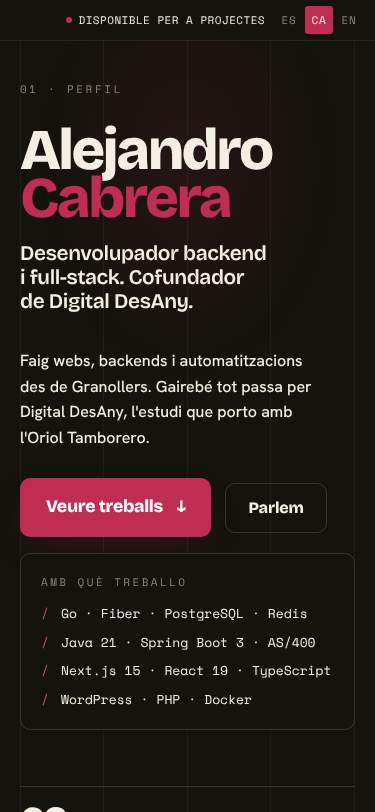
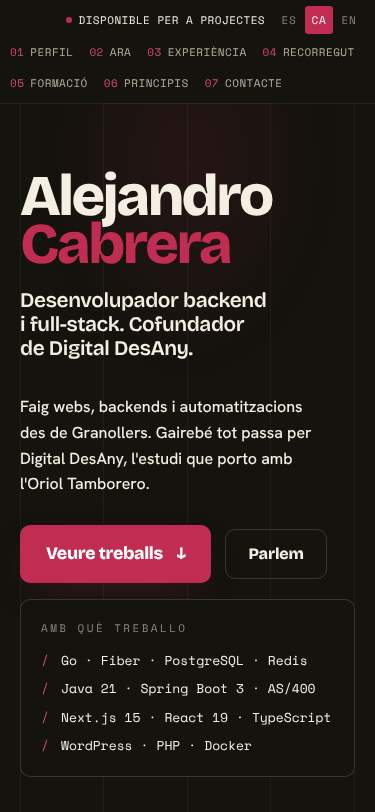
feat(layout): header con índice de secciones, footer y menos etiquetas (Fase 5)
- <header> con nombre, índice numerado, disponibilidad e idioma; <footer> propio
- fuera reloj, separadores y etiquetas mono que solo decoraban
- axe sin ninguna violación en es/ca/en a 375 y 1440 px

Claude-Session: https://claude.ai/code/session_01UWfBXUSZpupNeN7F689GFX

diff --git a/app/globals.css b/app/globals.css
@@ -139,46 +139,85 @@ button { font: inherit; color: inherit; background: none; border: none; cursor: 
   padding-right: var(--pad);
 }
 
-/* ───────── Telemetry bar ───────── */
-.telemetry {
+/* ───────── Site header ─────────
+   One row on wide screens. Below 1100px the section index drops to its own
+   row; below 861px the header stops being sticky so it doesn't eat the screen. */
+.site-header {
   position: sticky;
   top: 0;
   z-index: 50;
   backdrop-filter: blur(14px);
-  background: color-mix(in srgb, var(--bg) 78%, transparent);
+  background: color-mix(in srgb, var(--bg) 88%, transparent);
   border-bottom: 1px solid var(--line);
 }
-.telemetry__inner {
+.site-header__bar {
   max-width: var(--shell-max);
   margin: 0 auto;
   padding: 8px var(--pad);
   display: flex;
+  flex-wrap: wrap;
   align-items: center;
-  gap: 18px;
+  gap: 6px 18px;
   font-family: var(--font-mono), ui-monospace, monospace;
   font-size: 11px;
   text-transform: uppercase;
-  letter-spacing: 0.14em;
+  letter-spacing: 0.12em;
   white-space: nowrap;
 }
-.telemetry__sysid { color: var(--ink); font-weight: 700; }
-.telemetry__sep { color: var(--muted-faint); }
-.telemetry__role { color: var(--muted); }
-.telemetry__spacer { flex: 1; }
-.telemetry__avail {
+.site-header__name {
+  color: var(--ink);
+  font-weight: 700;
+  min-height: 28px;
+  display: inline-flex;
+  align-items: center;
+}
+.site-header__spacer { flex: 1; }
+.site-header__avail {
   display: inline-flex; align-items: center; gap: 7px;
   color: var(--ink);
 }
-.telemetry__clock { color: var(--muted-soft); }
+.site-nav ol { display: flex; flex-wrap: wrap; gap: 2px 4px; list-style: none; margin: 0; padding: 0; }
+.site-nav a {
+  display: inline-flex;
+  align-items: baseline;
+  gap: 6px;
+  min-height: 28px;
+  padding: 6px 8px;
+  border-radius: 4px;
+  color: var(--muted);
+  transition: color 0.25s, background 0.25s;
+}
+.site-nav a:hover { color: var(--ink); background: color-mix(in srgb, var(--ink) 6%, transparent); }
+.site-nav__num { color: var(--accent-text); }
+@media (max-width: 1099px) {
+  .site-nav { order: 10; flex-basis: 100%; }
+  .site-nav ol { margin-left: -8px; }
+}
 @media (max-width: 860px) {
-  .telemetry__role,
-  .telemetry__clock,
-  .telemetry__sep { display: none; }
+  .site-header { position: relative; }
 }
 @media (max-width: 480px) {
-  .telemetry__sysid { display: none; }
-  .telemetry__inner { padding: 6px 12px; gap: 10px; letter-spacing: 0.04em; }
+  .site-header__name { display: none; }
+  .site-header__bar { padding: 6px 12px; gap: 4px 10px; letter-spacing: 0.04em; }
+  .site-nav a { padding: 6px 6px; }
 }
+section[id], article[id] { scroll-margin-top: 72px; }
+
+/* ───────── Site footer ───────── */
+.site-footer {
+  padding-top: 22px;
+  padding-bottom: clamp(40px, 6vw, 72px);
+  display: flex;
+  justify-content: space-between;
+  gap: 8px 16px;
+  flex-wrap: wrap;
+  font-family: var(--font-mono), ui-monospace, monospace;
+  font-size: 11px;
+  letter-spacing: 0.06em;
+  color: var(--muted-soft);
+  border-top: 1px solid var(--line);
+}
+
 .dot {
   width: 6px; height: 6px; border-radius: 50%;
   background: #4ade80;

diff --git a/components/SiteHeader.tsx b/components/SiteHeader.tsx
@@ -1,31 +1,35 @@
 import { DATA } from "@/lib/content";
 import { LOCALES, LOCALE_FULL, translator, type Locale } from "@/lib/i18n-types";
 import { LOCALE_PATH } from "@/lib/site";
-import { Clock } from "./ui/Clock";
 
-export function TelemetryBar({ locale }: { locale: Locale }) {
+/** Skip link plus the banner: name, section index, availability and language. */
+export function SiteHeader({ locale }: { locale: Locale }) {
   const t = translator(locale);
-  const d = DATA.telemetry;
+  const d = DATA.header;
   return (
     <>
       <a className="skip-link" href="#contenido">
         {t(d.skipLink)}
       </a>
-      <div className="telemetry">
-        <div className="telemetry__inner">
-          <span className="telemetry__sysid">{d.name}</span>
-          <span className="telemetry__sep" aria-hidden>
-            {"//"}
-          </span>
-          <span className="telemetry__role">{t(d.role)}</span>
-          <span className="telemetry__spacer" />
-          <span className="telemetry__clock" title="CET">
-            <Clock /> CET
-          </span>
-          <span className="telemetry__sep" aria-hidden>
-            ·
-          </span>
-          <span className="telemetry__avail">
+      <header className="site-header">
+        <div className="site-header__bar">
+          <a href="#perfil" className="site-header__name">
+            {d.name}
+          </a>
+          <nav className="site-nav" aria-label={t(d.navLabel)}>
+            <ol>
+              {DATA.sections.map((s) => (
+                <li key={s.id}>
+                  <a href={`#${s.id}`}>
+                    <span className="site-nav__num">{s.num}</span>
+                    {t(s.label)}
+                  </a>
+                </li>
+              ))}
+            </ol>
+          </nav>
+          <span className="site-header__spacer" />
+          <span className="site-header__avail">
             <span className="dot dot--accent dot-pulse" aria-hidden />
             {t(d.availability)}
           </span>
@@ -46,7 +50,7 @@ export function TelemetryBar({ locale }: { locale: Locale }) {
             ))}
           </nav>
         </div>
-      </div>
+      </header>
     </>
   );
 }

diff --git a/lib/content.ts b/lib/content.ts
@@ -53,6 +53,7 @@ export const PERSON_NAME = "Alejandro Cabrera";
 export const DATA = {
   /** In-page index, in section order. */
   sections: [
+    { id: "perfil", num: "01", label: { es: "Perfil", ca: "Perfil", en: "Profile" } },
     { id: "ahora", num: "02", label: { es: "Ahora", ca: "Ara", en: "Now" } },
     { id: "experiencia", num: "03", label: { es: "Experiencia", ca: "Experiència", en: "Experience" } },
     { id: "recorrido", num: "04", label: { es: "Recorrido", ca: "Recorregut", en: "Path" } },
@@ -61,24 +62,19 @@ export const DATA = {
     { id: "contacto", num: "07", label: { es: "Contacto", ca: "Contacte", en: "Contact" } },
   ] as { id: string; num: string; label: Localized }[],
 
-  telemetry: {
+  header: {
     name: PERSON_NAME,
-    role: {
-      es: "Backend y full-stack · Granollers",
-      ca: "Backend i full-stack · Granollers",
-      en: "Backend and full-stack · Granollers",
-    } as Localized,
     availability: {
       es: "Disponible para proyectos",
       ca: "Disponible per a projectes",
       en: "Open to new projects",
     } as Localized,
     skipLink: { es: "Saltar al contenido", ca: "Vés al contingut", en: "Skip to content" } as Localized,
+    navLabel: { es: "Secciones", ca: "Seccions", en: "Sections" } as Localized,
     langLabel: { es: "Idioma", ca: "Idioma", en: "Language" } as Localized,
   },
 
   hero: {
-    label: { es: "Perfil", ca: "Perfil", en: "Profile" } as Localized,
     hint: {
       es: "pasa el cursor por el nombre para reanimarlo ↻",
       ca: "passa el cursor pel nom per tornar-lo a animar ↻",

diff --git a/components/sections/Contact.tsx b/components/sections/Contact.tsx
@@ -9,7 +9,7 @@ export function Contact({ locale }: { locale: Locale }) {
     <section
       id="contacto"
       className="shell section"
-      style={{ paddingTop: "clamp(20px,3vw,40px)", paddingBottom: "clamp(56px,8vw,100px)" }}
+      style={{ paddingTop: "clamp(20px,3vw,40px)", paddingBottom: "clamp(48px,7vw,90px)" }}
     >
       <div style={{ borderTop: "1px solid var(--line-strong)", paddingTop: "18px" }}>
         <Reveal style={{ display: "flex", alignItems: "baseline", gap: "18px" }}>
@@ -113,24 +113,6 @@ export function Contact({ locale }: { locale: Locale }) {
           </Reveal>
         </div>
 
-        <Reveal
-          style={{
-            marginTop: "clamp(48px,7vw,90px)",
-            borderTop: "1px solid var(--line)",
-            paddingTop: "22px",
-            display: "flex",
-            justifyContent: "space-between",
-            gap: "16px",
-            flexWrap: "wrap",
-          }}
-        >
-          <p className="font-mono" style={{ fontSize: "11px", color: "var(--muted-soft)", letterSpacing: "0.04em" }}>
-            {t(d.footerNote)}
-          </p>
-          <p className="font-mono" style={{ fontSize: "11px", color: "var(--muted-faint)", letterSpacing: "0.1em" }}>
-            {d.copyright}
-          </p>
-        </Reveal>
       </div>
     </section>
   );

diff --git a/components/LocalePage.tsx b/components/LocalePage.tsx
@@ -1,15 +1,17 @@
 import type { Locale } from "@/lib/i18n-types";
-import { TelemetryBar } from "./TelemetryBar";
+import { SiteHeader } from "./SiteHeader";
+import { SiteFooter } from "./SiteFooter";
 import { Sections } from "./Sections";
 
 /** The page for one locale, rendered on the server. */
 export function LocalePage({ locale }: { locale: Locale }) {
   return (
     <>
-      <TelemetryBar locale={locale} />
+      <SiteHeader locale={locale} />
       <main id="contenido" tabIndex={-1} style={{ position: "relative", zIndex: 2 }}>
         <Sections locale={locale} />
       </main>
+      <SiteFooter locale={locale} />
     </>
   );
 }

diff --git a/components/sections/Now.tsx b/components/sections/Now.tsx
@@ -24,9 +24,6 @@ export function Now({ locale }: { locale: Locale }) {
             className="col-1 panel"
             style={{ padding: "clamp(18px,2.2vw,26px)", display: "flex", flexDirection: "column", gap: "10px" }}
           >
-            <span className="font-mono" style={{ fontSize: "11px", color: "var(--accent-text)" }} aria-hidden>
-              {String(i + 1).padStart(2, "0")}
-            </span>
             <h4
               className="font-display"
               style={{ fontWeight: 700, fontSize: "clamp(1.1rem,1.6vw,1.3rem)", letterSpacing: "-0.02em" }}

diff --git a/components/sections/Hero.tsx b/components/sections/Hero.tsx
@@ -12,8 +12,7 @@ export function Hero({ locale }: { locale: Locale }) {
       className="shell section"
       style={{ paddingTop: "clamp(40px,7vw,84px)", paddingBottom: "clamp(56px,9vw,120px)" }}
     >
-      <Reveal style={{ display: "flex", justifyContent: "space-between", alignItems: "baseline", gap: "16px" }}>
-        <span className="section__label">01 · {t(d.label)}</span>
+      <Reveal style={{ display: "flex", justifyContent: "flex-end" }}>
         <span className="mono-label hover-only" aria-hidden>
           {t(d.hint)}
         </span>

diff --git a/components/SiteFooter.tsx b/components/SiteFooter.tsx
@@ -1,0 +1,15 @@
+import { DATA } from "@/lib/content";
+import { translator, type Locale } from "@/lib/i18n-types";
+
+export function SiteFooter({ locale }: { locale: Locale }) {
+  const t = translator(locale);
+  const d = DATA.contact;
+  return (
+    <footer className="shell" style={{ position: "relative", zIndex: 2 }}>
+      <div className="site-footer">
+        <p>{t(d.footerNote)}</p>
+        <p>{d.copyright}</p>
+      </div>
+    </footer>
+  );
+}

diff --git a/docs/portfolio-refresh/PREGUNTAS.md b/docs/portfolio-refresh/PREGUNTAS.md
@@ -55,3 +55,11 @@ Lo que no cubría `DECISIONES.md`, qué se decidió y por qué. Lo marcado **Pen
 - **Imagen OG.** Una por idioma, con Bricolage Grotesque desde `assets/fonts/` (WOFF de @fontsource, licencia OFL incluida; `next/og` no lee WOFF2). Next añade un sufijo a su URL (`/opengraph-image-xxxx`) porque vive en un grupo de rutas; las etiquetas `og:image` apuntan a la buena. Se quita `twitter-image`: X usa la imagen OG.
 - **JSON-LD.** Se quita la lista `subjectOf` con webs de terceros y la marca "Alexasto" del título; "Alexasto" y "alexasto12" quedan como `alternateName`. Organization Digital DesAny lleva como `founder` a Alejandro y a Oriol Tamborero. El premio va en `award` con el texto de `DECISIONES.md` (pendiente de confirmar el nombre).
 - **Comprobación.** `npm run seo` valida todo lo de esta fase y guarda las imágenes OG, el sitemap y robots.txt en `despues/seo/`.
+
+## Fase 5
+
+- **Encabezado.** `<header>` con el nombre, el índice numerado de secciones (`<nav>`), "Disponible para proyectos" y el selector de idioma (otro `<nav>`). En una sola fila desde 1100 px; por debajo, el índice baja a su propia fila. Por debajo de 861 px el encabezado deja de ser fijo para no ocupar media pantalla en el móvil; la fila de disponibilidad e idioma sigue sin partirse a 320 px.
+- **Pie.** `<footer>` con "Sin plantillas. Hecho a mano en Granollers." y el copyright, que antes estaban dentro de Contacto.
+- **Etiquetas mono que se quitan por ser solo decoración:** el reloj y el separador `//` de la barra, el rol repetido en la barra (ya está en el hero), "01 · Perfil" del hero y los números 01-04 de los servicios.
+- **Las que se quedan, porque dan información:** el nombre de cada sección junto a su número, los subtítulos ("Qué hacemos", "Casos", "Lo que construí"), las etiquetas de tecnología, el tipo y el lugar de cada hito, y el ticker de VMV (la Fase 2 solo pedía quitar KAFKA). La pista del nombre animado sigue solo en dispositivos con ratón.
+- **Dirección visual:** tema oscuro, paleta accesible de `CLAUDE.md` y menos etiquetas mono, como dice `DECISIONES.md`.

diff --git a/docs/portfolio-refresh/despues/a11y/axe.md b/docs/portfolio-refresh/despues/a11y/axe.md
@@ -1,17 +1,17 @@
 # axe-core y comprobaciones propias
 
-Generado: 2026-10-13T12:12:47.926Z. Etiquetas: wcag2a, wcag2aa, wcag21a, wcag21aa, wcag22aa, best-practice.
+Generado: 2026-10-13T12:16:25.094Z. Etiquetas: wcag2a, wcag2aa, wcag21a, wcag21aa, wcag22aa, best-practice.
 
 ## axe
 
 | Idioma | Ancho | Reglas con fallos | Serias o críticas | Detalle |
 |---|---|---|---|---|
-| es | 375 | 1 | 0 | region (moderate, 1) |
-| es | 1440 | 1 | 0 | region (moderate, 4) |
-| ca | 375 | 1 | 0 | region (moderate, 1) |
-| ca | 1440 | 1 | 0 | region (moderate, 4) |
-| en | 375 | 1 | 0 | region (moderate, 1) |
-| en | 1440 | 1 | 0 | region (moderate, 4) |
+| es | 375 | 0 | 0 | sin fallos |
+| es | 1440 | 0 | 0 | sin fallos |
+| ca | 375 | 0 | 0 | sin fallos |
+| ca | 1440 | 0 | 0 | sin fallos |
+| en | 375 | 0 | 0 | sin fallos |
+| en | 1440 | 0 | 0 | sin fallos |
 
 ## Desbordamiento horizontal
 

diff --git a/docs/portfolio-refresh/PLAN.md b/docs/portfolio-refresh/PLAN.md
@@ -99,9 +99,9 @@ Usa solo los hechos de `DECISIONES.md` y escribe cada cambio en los tres idiomas
 
 ## Fase 5. Navegación y estructura
 
-- [ ] **Landmarks:** un `header` con navegación (índice de secciones con su número) y un `footer`.
-- [ ] **Etiquetas mono:** quita las pequeñas que son solo decoración y no aportan información.
-- [ ] **Dirección visual** según `DECISIONES.md`.
+- [x] **Landmarks:** un `header` con navegación (índice de secciones con su número) y un `footer`.
+- [x] **Etiquetas mono:** quita las pequeñas que son solo decoración y no aportan información.
+- [x] **Dirección visual** según `DECISIONES.md`.
 
 **Hecho cuando:** axe no da errores serios ni críticos y las capturas finales están guardadas.
 

diff --git a/docs/portfolio-refresh/despues/seo/seo.md b/docs/portfolio-refresh/despues/seo/seo.md
@@ -1,6 +1,6 @@
 # Comprobación de SEO e idiomas
 
-Generado: 2026-10-13T12:12:33.617Z. SITE_URL: https://dev.alexasto.com.
+Generado: 2026-10-13T12:17:29.997Z. SITE_URL: https://dev.alexasto.com.
 
 | Comprobación | Resultado | Detalle |
 |---|---|---|
